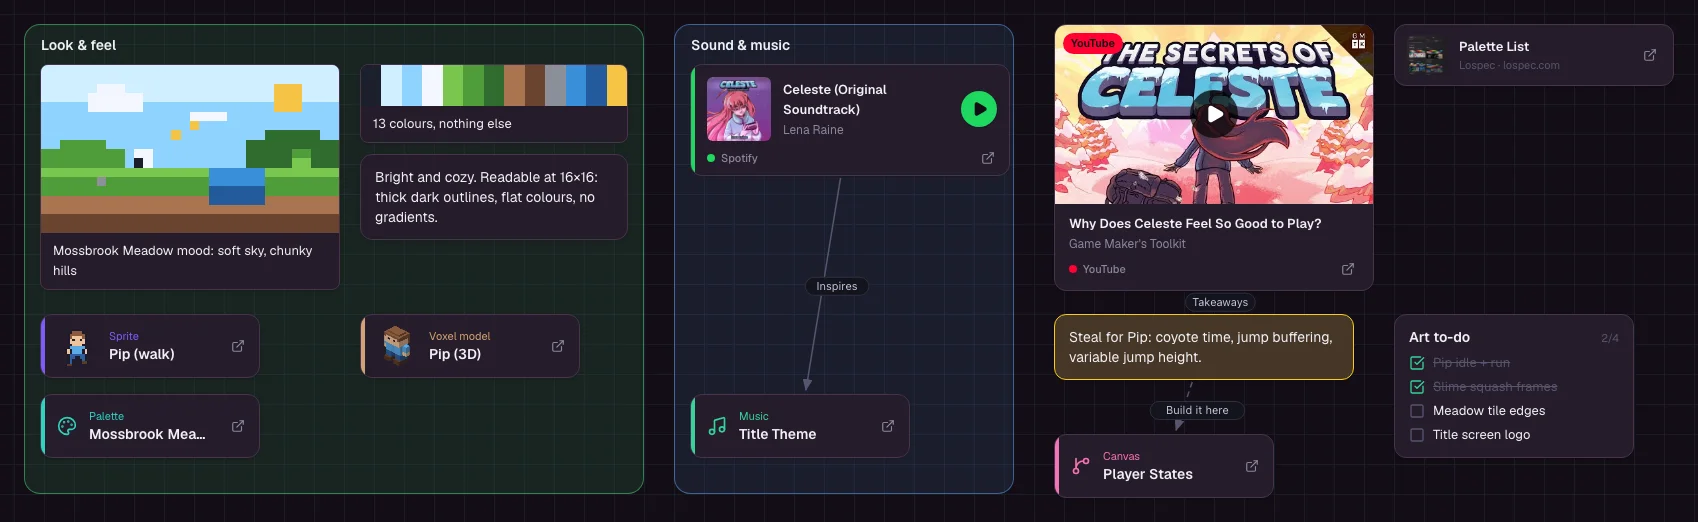
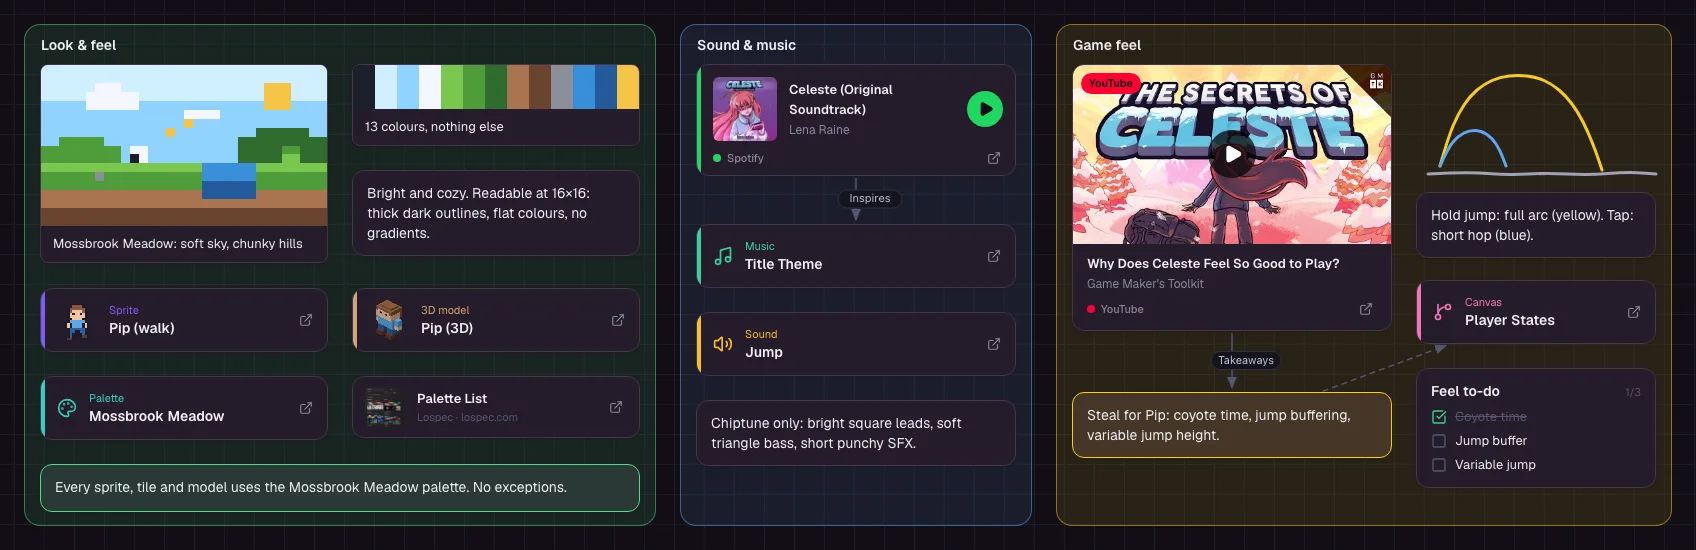
Update the landing canvas screenshot to the new moodboard
The example moodboard was reworked into three sections, so the landing page's screenshot showed a layout the app no longer has. Recaptured it and updated its size and alt text.

diff --git a/src/app/page.tsx b/src/app/page.tsx
@@ -429,9 +429,9 @@ export default function LandingPage() {
           <div className="mb-6 rounded-xl border overflow-hidden max-md:overflow-x-auto" style={{ borderColor: "var(--border)" }}>
             <Image
               src="/landing/canvas-moodboard.webp"
-              width={1698}
-              height={522}
-              alt="Pip's Quest moodboard canvas: a Look and feel group with a meadow mood image, palette strip, style note and sprite, model and palette cards; a Sound and music group with a Spotify album shown as a song with a play button; a YouTube video card, a Lospec link card, an art to-do checklist and labelled arrows between them."
+              width={1696}
+              height={550}
+              alt="Pip's Quest moodboard canvas in three sections: Look and feel with a meadow mood image, palette strip, style notes and sprite, model and palette cards; Sound and music with a Spotify album shown as a song with a play button; Game feel with a YouTube video card, hand-drawn jump arcs, notes and a to-do checklist, joined by labelled arrows."
               sizes="(max-width: 768px) 900px, (max-width: 1152px) 100vw, 1152px"
               className="w-full h-auto max-md:w-[900px] max-md:max-w-none"
             />
